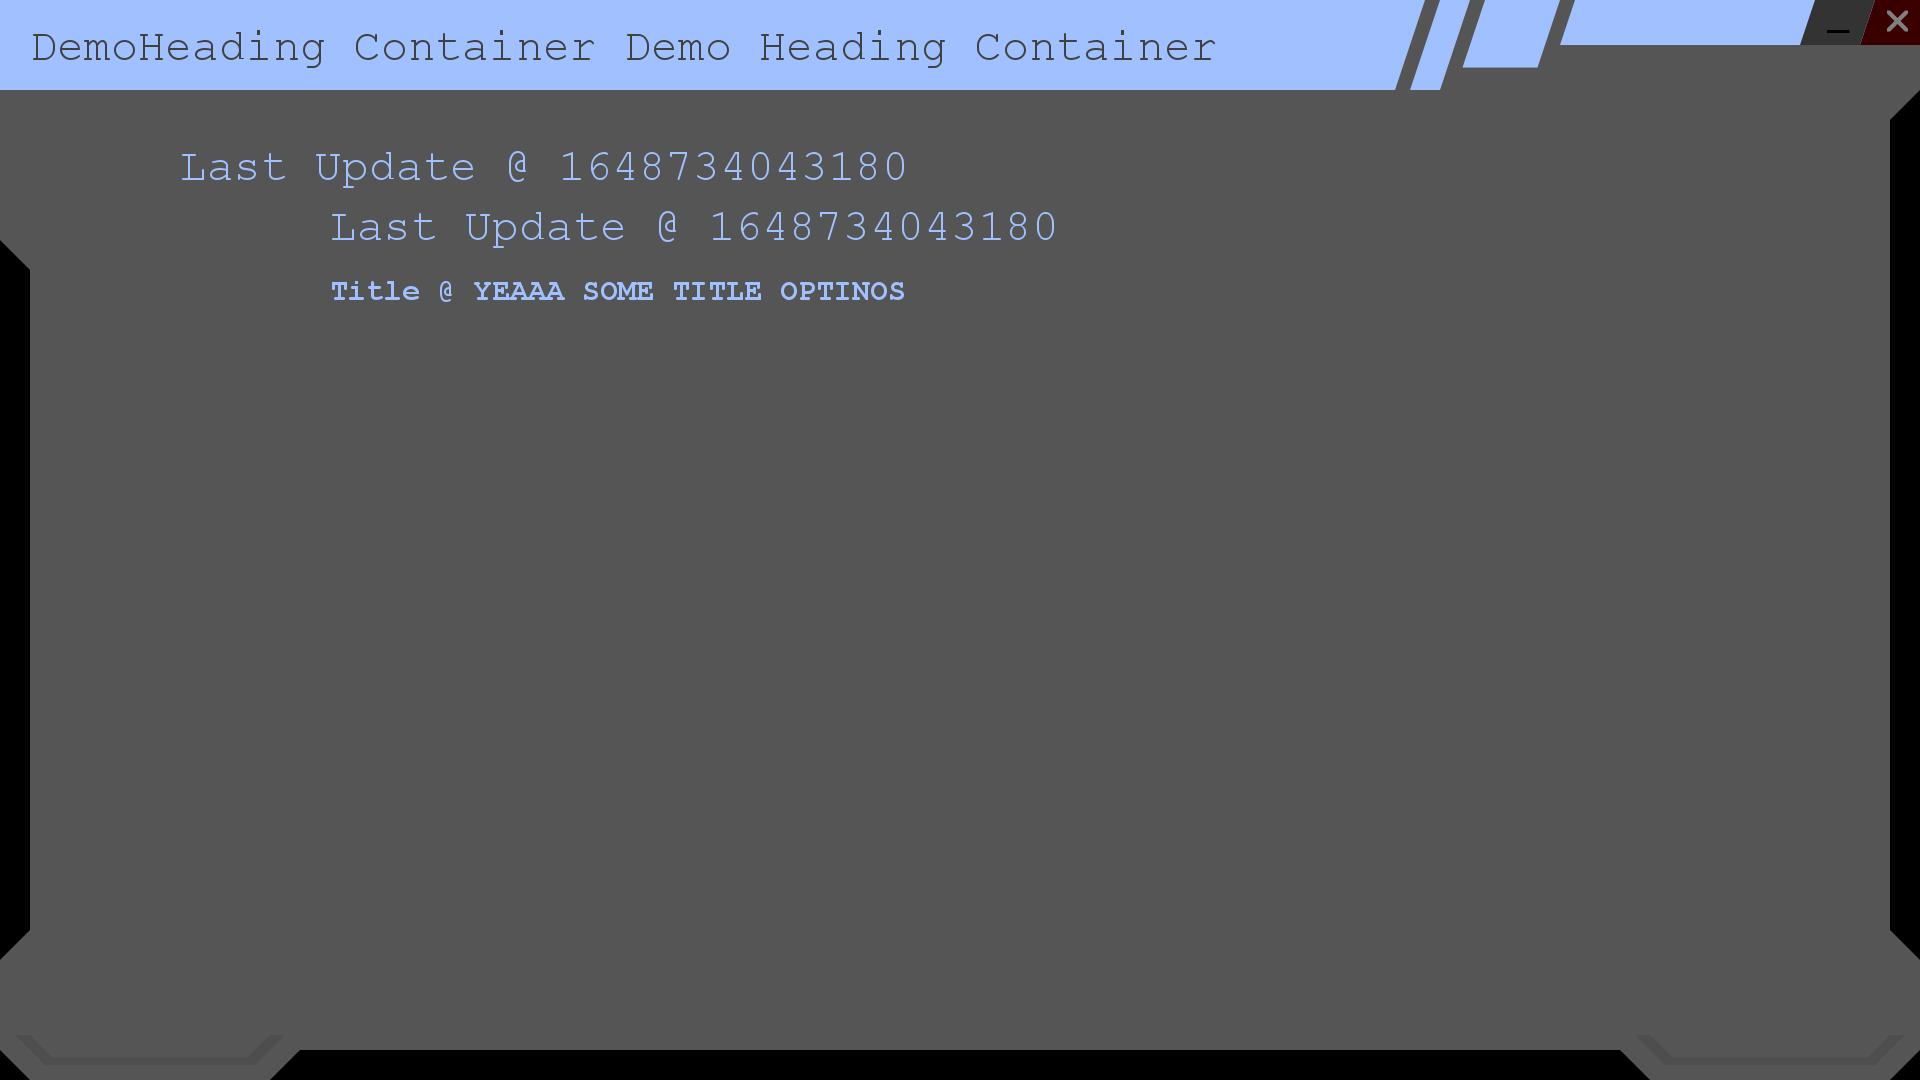
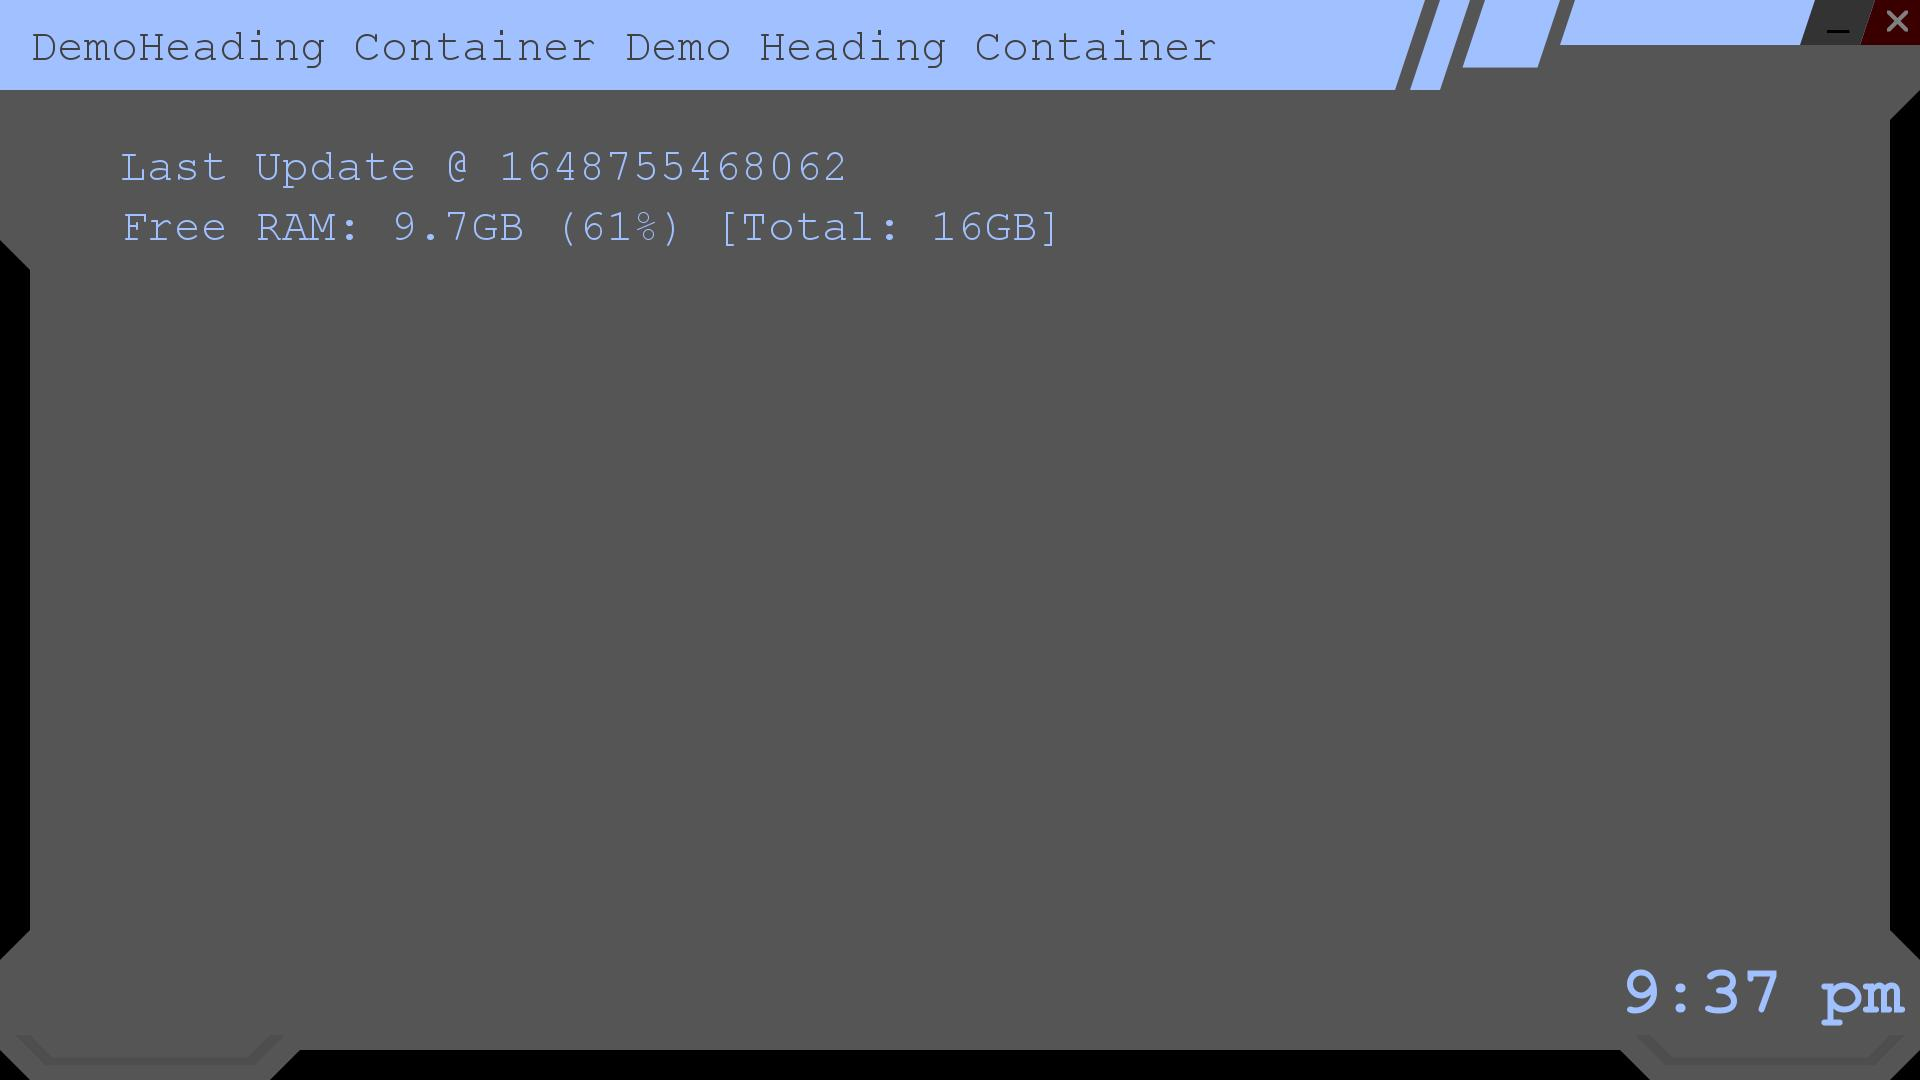
yea cache added with few tricks so it can save data, load from file...etc. Also extended wallpaper to include few of the things vWatch now loads to vCache.

Changed region(s): [[0.0625, 0.1222, 0.5625, 0.275], [0.8438, 0.8861, 1.0, 0.9472]]

diff --git a/src/wallpaperGUI/template.js b/src/wallpaperGUI/template.js
@@ -1,4 +1,5 @@
 const config = require('../config');
+const vCache = require('../vCache');
 
 function svgTemplate(data = {}) {
 
@@ -31,6 +32,18 @@ function svgTemplate(data = {}) {
     }
   };
 
+  function formatAMPM(date) {
+    var hours = date.getHours();
+    var minutes = date.getMinutes();
+    var ampm = hours >= 12 ? 'pm' : 'am';
+    hours = hours % 12;
+    hours = hours ? hours : 12; // the hour '0' should be '12'
+    minutes = minutes < 10 ? '0'+minutes : minutes;
+    var strTime = hours + ':' + minutes + ' ' + ampm;
+    return strTime;
+  }
+
+
 
   this.name = data.name || "customSVGdemoName";
   this.white = data.white || "#ffffff";
@@ -44,6 +57,7 @@ function svgTemplate(data = {}) {
   this.helperWidth = 1280;
   this.helperHeight = 720;
 
+  this.superFontSize = 45;
   this.mainFontSize = 30;
   this.subFontSize = 20;
   this.minFontSize = 11;
@@ -54,7 +68,7 @@ function svgTemplate(data = {}) {
 
 
 
-  this.render = (val = {}) => {
+  this.render = async (val = {}) => {
     if (this.useRandomColors) this.randomColors();
     return `<svg xmlns="http://www.w3.org/2000/svg" viewBox="0 0 ${this.helperWidth} ${this.helperHeight}"  height="${this.helperHeight}" width="${this.helperWidth}" class="${this.name}">
               <path d="M 0 0 l ${this.helperWidth} 0 0 60 -20 20 0 ${(this.helperHeight - 180)}  20 20 0 60 -20 20 -160 0 -20 -20${-(this.helperWidth - 400)}  0 -20 20 -160 0 -20 -20 0 -60 20 -20 0 ${-(this.helperHeight - 280)}  -20 -20" stroke="none" stroke-width="${this.strokeWidth}" fill="${this.containerBackground}" ></path>
@@ -71,12 +85,12 @@ function svgTemplate(data = {}) {
 
               <g font-size="${this.mainFontSize}"  font-family="monospace" fill="${this.background}" stroke="none"  >
                 ${draw.text(20, 40, `DemoHeading Container Demo Heading Container`, this.backgroundAlt)}
-                ${draw.text(120, 120, `Last Update @ ${Date.now()}`)}
-                ${draw.text(220, 160, `Last Update @ ${Date.now()}`)}
+                ${draw.text(80, 120, `Last Update @ ${Date.now()}`)}
+                ${draw.text(80, 160, `Free RAM: ${await vCache.get('freemem')}GB (${await vCache.get('freememproc')}%) [Total: ${await vCache.get('totalmem')}GB]`)}
               </g>
 
-              <g font-size="${this.subFontSize}"  font-family="monospace" font-weight="bold" fill="${this.main}"  stroke="none" >
-                <text x="220" y="200" >Title @ ${val.title}</text>
+              <g font-size="${this.superFontSize}"  font-family="monospace" font-weight="bold" fill="${this.mainAlt}"  stroke="none" >
+                ${draw.text(this.helperWidth - 200, this.helperHeight - 45, `${formatAMPM(new Date)}`)}
               </g>
 
 
@@ -125,9 +139,6 @@ function svgTemplate(data = {}) {
     }
     return "";
   };
-
-
-  return this.render();
 
 }
 

diff --git a/src/sysTasks/index.js b/src/sysTasks/index.js
@@ -1,0 +1,67 @@
+const config = require('../config');
+
+const vCache = require('../vCache');
+const v_os = require('../helpers/v_os');
+const wallpaperGUI = require('../wallpaperGUI/init');
+
+const { byteSizer } = require('v_file_system');
+
+const vTimer = {
+  seconds: (val = 1) => {
+    return val * 1000;
+  },
+  minutes: (val = 1) => {
+    return vTimer.seconds(val * 60);
+  },
+  hours: (val = 1) => {
+    return vTimer.minutes(val * 60);
+  },
+  days: (val = 1) => {
+    return vTimer.hours(val * 24);
+  },
+  weeks: (val = 1) => {
+    return vTimer.days(val * 7);
+  }
+};
+
+const roundNumber = (val, i = 0) => {
+  i = 10 ^ i;
+  return Math.round(val * i) / i;
+};
+
+
+const actions = {};
+
+// Demo 'justPrintIt' action
+actions.justPrintIt = async() => console.log('justPrintIt');
+
+actions.renderWallpaper =  async () => await wallpaperGUI.render();
+
+actions.freememproc = async () => await vCache.set("freememproc", v_os.freememproc());
+
+actions.freemem = async () => await vCache.set("freemem", roundNumber(byteSizer.byteToGiga(v_os.freemem())));
+
+actions.totalmem = async () => await vCache.set("totalmem", roundNumber(byteSizer.byteToGiga(v_os.totalmem())));
+
+
+
+module.exports = sysTasks = (vWatch) => {
+
+  //* DEMO/SAMPLE TASKS TO RUN
+  vWatch.newTask("justDoIt", 750, () => console.log("justDoIt PRINT TO CONSOLE TASK"));
+
+
+  //! FEW REAL TASKS
+
+  // This will do the rendering of wallpaperGUI.
+  // This Tasks status should match config.backgroundUpdates value.
+  vWatch.newTask("wallpaperGUI", 3000, actions.renderWallpaper);
+  vWatch.setTaskStatus("wallpaperGUI", config.backgroundUpdates);
+
+
+  vWatch.newTask("freememproc", vTimer.seconds(), actions.freememproc);
+  vWatch.newTask("freemem", vTimer.seconds(), actions.freemem );
+  vWatch.newTask("totalmem", vTimer.minutes(2), actions.totalmem);
+
+  vWatch.newTask("justPrintIt", 500, actions.justPrintIt);
+};

diff --git a/src/vCache/index.js b/src/vCache/index.js
@@ -1,0 +1,67 @@
+const v_fs = require('v_file_system');
+
+function V_Cache() {
+
+  this.cache = {};
+
+  this.get = async (key) => {
+    return this.cache[key] || false;
+  };
+
+  this.set = async (key, value) => {
+    return (this.cache[key] = value) || false;
+  };
+
+  this.remove = async (key) => {
+    delete this.cache[key];
+  };
+
+  this.clear = async () => {
+    this.cache = {};
+  };
+
+  this.size = async () => {
+    return Object.keys(this.cache).length;
+  };
+
+  this.keys = async () => {
+    return Object.keys(this.cache);
+  };
+
+  this.values = async () => {
+    return Object.values(this.cache);
+  };
+
+  this.entries = async () => {
+    return Object.entries(this.cache);
+  };
+
+  this.toJSON = async () => {
+    return JSON.stringify(this.cache);
+  };
+
+  this.fromJSON = async (json) => {
+    this.cache = JSON.parse(json);
+  };
+
+  this.toString = async () => {
+    return this.toJSON();
+  };
+
+  this.fromString = async (string) => {
+    this.fromJSON(string);
+  };
+
+  this.toFile = async (file) => {
+    return v_fs.writeSy(file, this.toJSON());
+  };
+
+  this.fromFile = async (file) => {
+    return this.fromJSON(v_fs.readSy(file));
+  };
+
+}
+
+const vCache = new V_Cache();
+
+module.exports = vCache;

diff --git a/src/vCache/_TEST.js b/src/vCache/_TEST.js
@@ -1,0 +1,40 @@
+const path = require('path');
+
+const vCache = require('.');
+
+(async () => {
+
+  console.log(vCache);
+
+  console.log(await vCache.get('test'));
+
+  console.log(await vCache.set('test', 11));
+
+  console.log(await vCache.get('test'));
+
+  console.log(await vCache.toString());
+
+  console.log(await vCache.toFile(path.join(__dirname, 'demo.json')));
+
+
+  console.log(await vCache.set('test1', 11111));
+  console.log(await vCache.set('test2', 222222));
+  console.log(await vCache.set('test3', 33333333333));
+  console.log(await vCache.set('test4', 4444444444444));
+  console.log(await vCache.set('test5', 555555555555555));
+
+  const itemsCount = 1000000;
+
+  for (let i = 0; i < itemsCount; i++) {
+    await vCache.set(`test${i}`, i);
+  }
+
+  var size = await vCache.size();
+  console.log(size);
+
+  console.time("Test Read Speed 1");
+  console.log(await vCache.get('test' + Math.trunc(size / 2)));
+  console.timeEnd("Test Read Speed 1");
+
+
+})();

diff --git a/index.js b/index.js
@@ -15,20 +15,7 @@ const wallpaperGUI = require('./src/wallpaperGUI/init');
 const vWatch = require('./src/v_watch/init');
 
 
-
-
-//* DEMO/SAMPLE TASKS TO RUN
-vWatch.newTask("printToConsole", 500, () => console.log("printToConsole PRINT TO CONSOLE TASK"));
-vWatch.newTask("justDoIt", 750, () => console.log("justDoIt PRINT TO CONSOLE TASK"));
-
-
-//! FEW REAL TASKS
-
-// This will do the rendering of wallpaperGUI.
-vWatch.newTask("wallpaperGUI", 30000, async () => await wallpaperGUI.render());
-// Setting Task status to match settings.
-vWatch.setTaskStatus("wallpaperGUI", config.backgroundUpdates);
-
+require('./src/sysTasks')(vWatch);
 
 
 
@@ -52,5 +39,5 @@ process.on('SIGINT', () => {
   notify.app.stopping();
 
   // Set timeout to wait for all tasks to finish
-  setTimeout(() => process.exit(0), 1000);
+  setTimeout(() => process.exit(0), config.exitTimeout);
 });

diff --git a/src/wallpaperGUI/index.js b/src/wallpaperGUI/index.js
@@ -73,7 +73,7 @@ function backgroundGUI(data = { interval: 20000, scale: 0.75, autoInit: true }) 
   this.render = async () => {
     var time_01 = Date.now();
     if (config.debug) console.log("RENDERING-->>");
-    svg2img(mainSVG_Template.render({ title: "YEAAA SOME TITLE OPTINOS", totalUpdates: this.totalUpdates, lastExecTimeVal: this.lastExecTimeVal }), { 'width': this.screen.widthScaled, 'height': this.screen.heightScaled, format: 'jpg', 'quality': 60 }, this.saveAndSetBackground);
+    svg2img(await mainSVG_Template.render({ title: "YEAAA SOME TITLE OPTINOS", totalUpdates: this.totalUpdates, lastExecTimeVal: this.lastExecTimeVal }), { 'width': this.screen.widthScaled, 'height': this.screen.heightScaled, format: 'jpg', 'quality': 60 }, this.saveAndSetBackground);
     this.lastExecTimeVal = Date.now() - time_01;
   };
 

diff --git a/src/config/index.js b/src/config/index.js
@@ -108,12 +108,20 @@ const config = {
     }
   },
 
+
+  // EXITING Timeout
+  exitingTimeout: 1000,
+
+  set exitTimeout (value) {
+    return (!isNaN(value)) ? config.exitingTimeout = value : false;
+  },
+
+  get exitTimeout () {
+    return config.exitingTimeout;
+  },
+
+
 };
 
-/*
-config.loadConfigFromFile();
-console.log(config.debug);
-console.log(config.notifications);
-*/
 
 module.exports = config;
